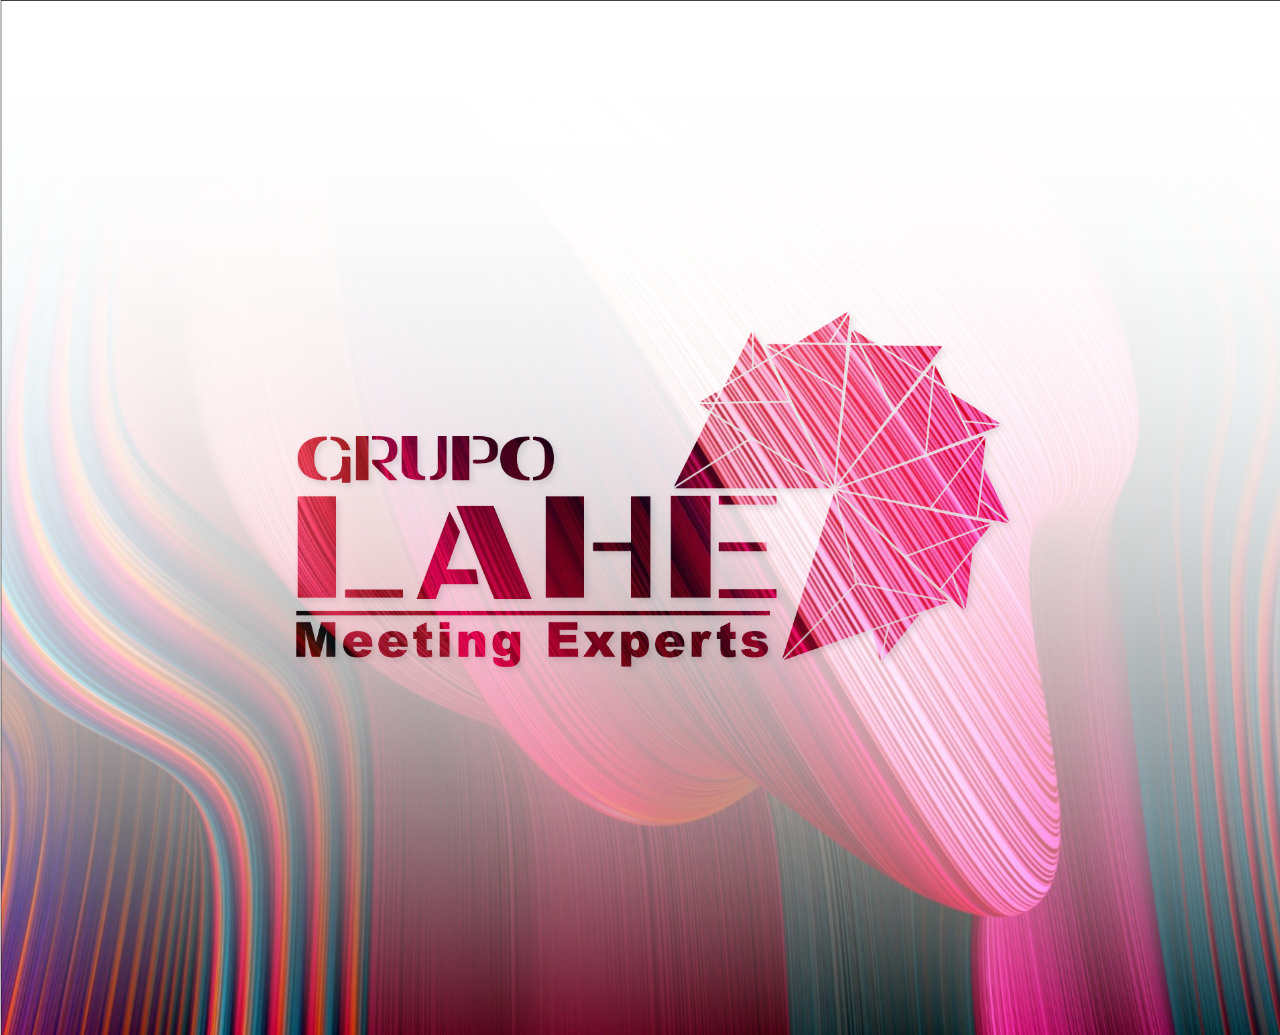
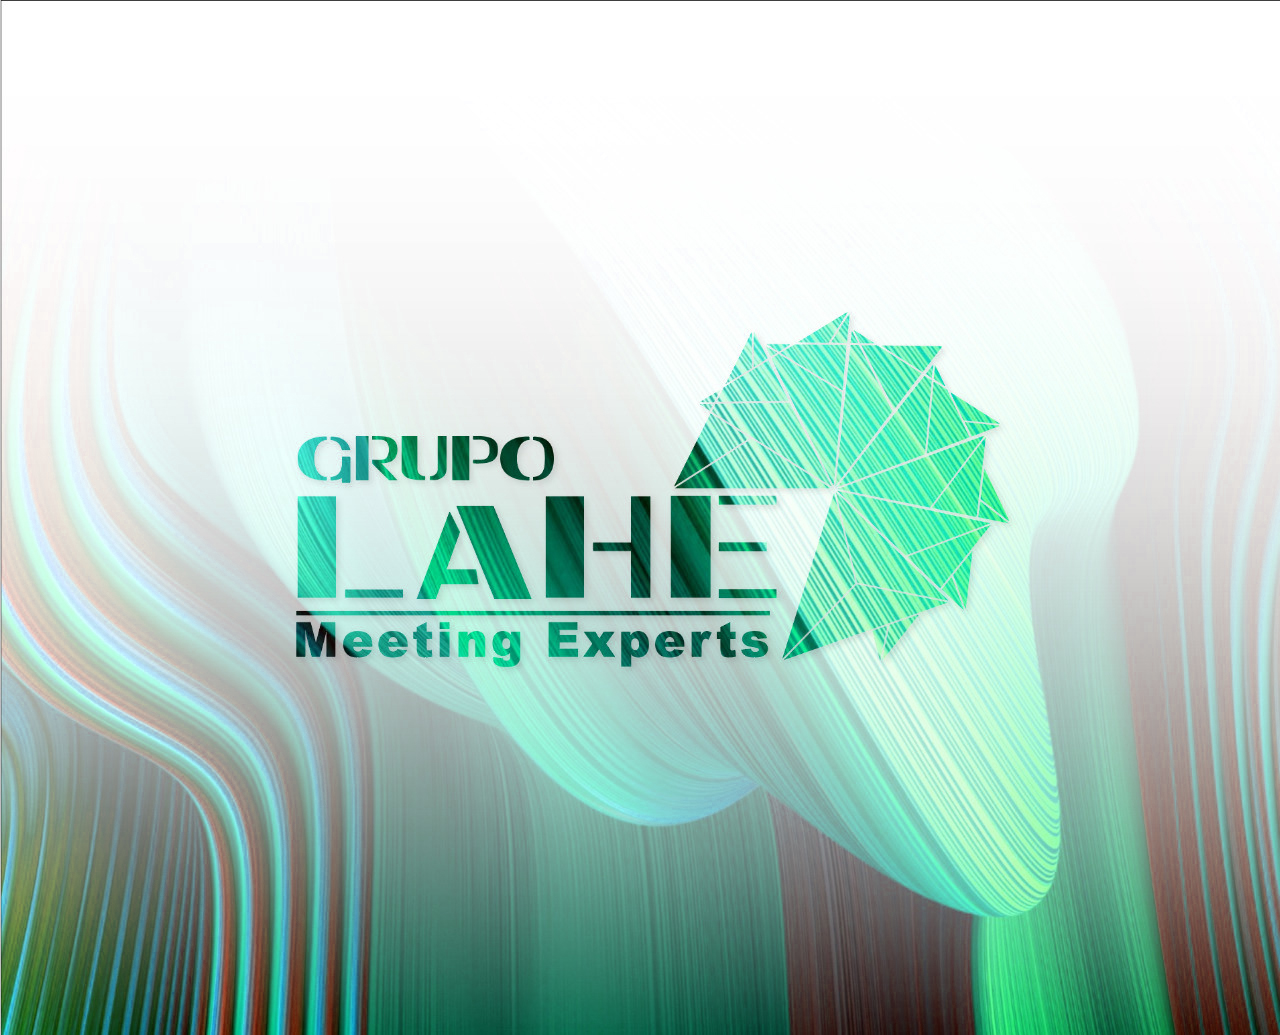
Login

diff --git a/backend/public/assets/css/soft-ui-dashboard.css b/backend/public/assets/css/soft-ui-dashboard.css
@@ -10373,11 +10373,12 @@ fieldset:disabled .btn {
 }
 
 .bg-gradient-pink-white {
-  background-image: linear-gradient(0deg, pink, #f7e1ebcc 75%);
+  background-image:  linear-gradient(0deg, #02825b, #a5f2db 75%);
+ 
 }
 
 .bg-gradient-pink {
-  background-image: linear-gradient(0deg, pink, #f7e1ebcc 75%);
+  background-image:  linear-gradient(0deg, #02825b, #a5f2db 75%);
 }
 
 .bg-gradient-red {

diff --git a/backend/App/views/login.php b/backend/App/views/login.php
@@ -18,11 +18,11 @@
             }
 
             .morado-musa-text{
-                color: rgb(98 56 246);
+                color: rgb(1 127 94);
             }
 
             .bg-musa-morado{
-                background-color: rgb(98 56 246);
+                background-color: rgb(1 127 94);
             }
 
             .bg-pink{
@@ -40,7 +40,7 @@
                             <div class="card card-plain mt-8">
                                 <div class="card-header pb-0 text-start">
                                     <h3 class="font-weight-bolder morado-musa-text">GRUPO LAHE</h3>
-                                    <h5 class="font-weight-bolder morado-musa-text">Administrador MUSA 2022</h5>
+                                    <h5 class="font-weight-bolder morado-musa-text">Administrador APM 2022</h5>
                                     <p class="mb-0">Introduce tus credenciales para iniciar sesión.</p>
                                 </div>
                                 <div class="card-body">
